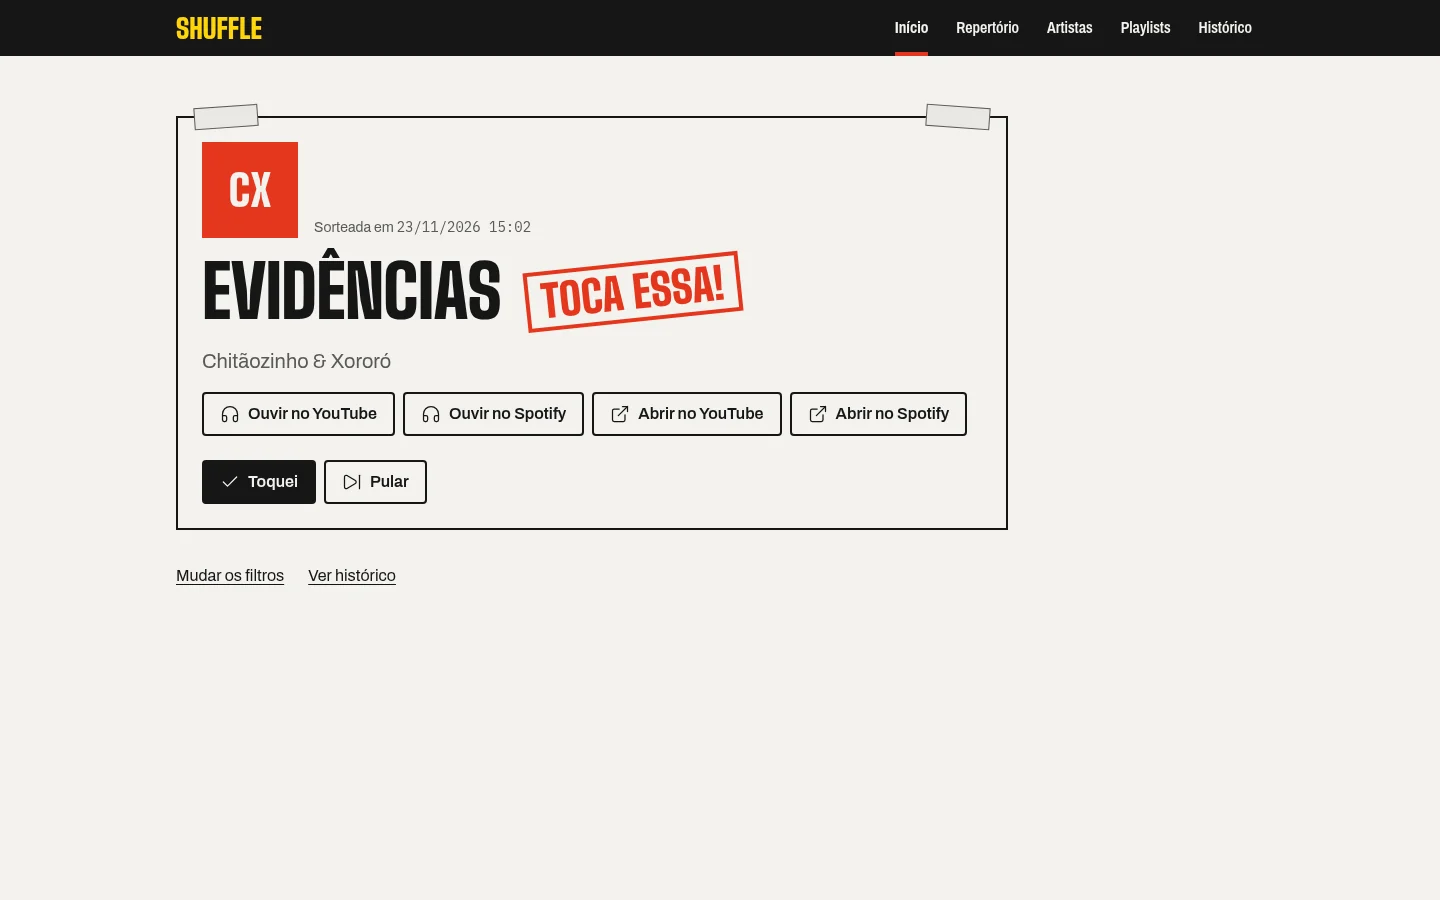
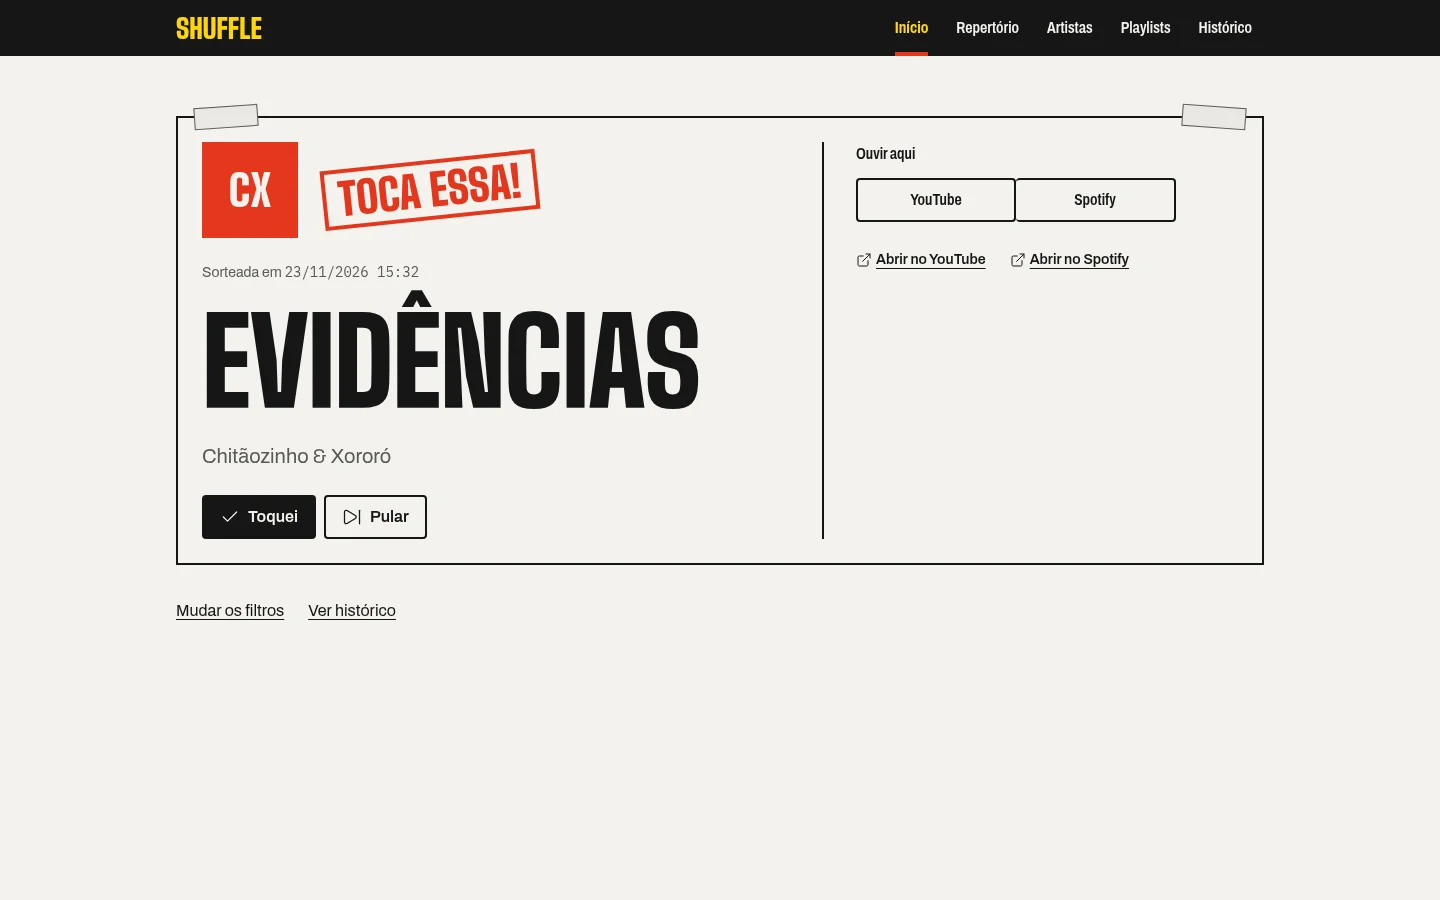
docs(revisao): grupo 4 - README e screenshots
README reescrito na estrutura da entrega (equipe, requisitos com versões,
como rodar, comandos úteis, problemas comuns, OpenSpec, stack e pastas,
telas e limitações), testado comando a comando numa cópia limpa.
Screenshots refeitos: 3 no celular a 390 px e 2 no desktop a 1440 px,
página inteira, sem nada atrás da barra fixa. Flask fixado em 3.1.3 e
critérios de pronto marcados no plano.

diff --git a/README.md b/README.md
@@ -1,112 +1,197 @@
 # Shuffle
 
-Sistema web para cadastrar as músicas que você **já conhece** e **sortear qual tocar** a seguir. O sorteio só usa músicas ativas, aceita filtros (gênero, humor, dificuldade máxima, artista, playlist), evita repetir as últimas N sorteadas e dá o dobro de chance às favoritas. A tela de histórico mostra as estatísticas: músicas mais tocadas, nunca sorteadas, média de notas e músicas por gênero. Cada música pode ter três links: um vídeo do YouTube (inclusive YouTube Music), uma faixa do Spotify e um "Outro link" (cifra, letra, busca). No resultado do sorteio há um botão para abrir cada link preenchido ("Abrir no YouTube", "Abrir no Spotify", "Abrir link") e o player embutido toca a música na própria tela: "Ouvir aqui" quando há um serviço, ou "Ouvir no YouTube" / "Ouvir no Spotify" quando há os dois.
-
-A interface segue o design system "Lambe-lambe", inspirado nos cartazes de show colados nos muros e na folha de setlist presa com fita no chão do palco: papel, tinta, amarelo e vermelho chapados, letras condensadas gigantes e listas com réguas no lugar de cartões. Funciona no celular a partir de 360 px, respeita a preferência de movimento reduzido e não depende de internet: fontes e ícones são servidos pelo próprio sistema.
+Cadastre as músicas que você já sabe tocar e deixe o Shuffle sortear qual vai ser a próxima.
 
 Trabalho de G2 da disciplina de Engenharia de Software, desenvolvido com **OpenSpec** (especificar antes de programar).
 
-## Telas
-
-| Início | Resultado do sorteio | Histórico e estatísticas |
-|---|---|---|
-| ![Início no celular](docs/screenshots/inicio-celular.webp) | ![Resultado no celular](docs/screenshots/resultado-celular.webp) | ![Histórico no celular](docs/screenshots/historico-celular.webp) |
-
-Mais capturas, no celular e no desktop, em [`docs/screenshots/`](docs/screenshots/).
-
-## Integrantes
+## Equipe
 
 - Kadu Brum Gavião
 - Miguel Mombach Foza
 - Josiel Paz
 
-## Pré-requisitos
+## Requisitos
 
-- Python 3 (testado com 3.12)
+- Python 3 e git: testado com Python 3.12.3 e git 2.43.0.
+- Google Chrome (ou Chromium): só para a ferramenta `tools/verificar_links.py`.
+- Node.js 20+ e a CLI do OpenSpec: só para o `openspec validate`.
 
-## Instalação
+O app usa só o Flask 3.1.3 (instalado no passo 4) e o SQLite que já vem com o Python. Não precisa de internet para rodar: fontes e ícones são servidos pelo próprio sistema.
+
+## Como rodar
+
+1. Clonar o repositório:
 
 ```bash
-python -m venv .venv
-source .venv/bin/activate        # Windows: .venv\Scripts\activate
+git clone https://github.com/kadugaviao/shuffle.git
+```
+
+2. Entrar na pasta:
+
+```bash
+cd shuffle
+```
+
+3. Criar e ativar o ambiente virtual (Linux e macOS):
+
+```bash
+python3 -m venv .venv
+source .venv/bin/activate
+```
+
+No Windows (PowerShell):
+
+```powershell
+py -m venv .venv
+.venv\Scripts\activate
+```
+
+4. Instalar as dependências:
+
+```bash
 pip install -r requirements.txt
 ```
 
-## Carga inicial (opcional)
+5. Carregar os dados de exemplo (opcional):
 
 ```bash
 python seed.py
 ```
 
-Cria dados de exemplo para a demonstração: 18 artistas, 20 músicas (rock, rock brasileiro, metal, samba, sertanejo e MPB; os 4 humores; dificuldades de 1 a 5; 5 favoritas e 1 inativa) e as playlists "Roda de violão" e "Churrasco". Todas as músicas têm a faixa do Spotify e quatro têm vídeo do YouTube que toca no player ("Tempo Perdido", "Sonífera Ilha", "Trem das Onze" e "Evidências"); as demais ficam com uma busca do YouTube no "Outro link", porque os vídeos oficiais bloqueiam a incorporação. Os links foram conferidos no navegador e estão documentados em [`docs/links-verificados.md`](docs/links-verificados.md).
-
-- Pode ser rodado mais de uma vez: não duplica nada e não sobrescreve o que você editou.
-- Itens do seed que você excluiu **voltam a ser criados** se rodar de novo.
-
-## Execução
+6. Rodar:
 
 ```bash
 flask --app shuffle_meu run
 ```
 
-Abra http://127.0.0.1:5000. O banco SQLite é criado sozinho em `instance/shuffle.db` na primeira execução.
+7. Abrir no navegador: http://127.0.0.1:5000
 
-## Testes
+## Comandos úteis
+
+Rodar os testes:
 
 ```bash
 python -m unittest
 ```
 
-## Comandos úteis
-
-Conferir se links do YouTube e do Spotify tocam no player embutido (precisa de internet e do Google Chrome; não faz parte dos testes automáticos):
+Recriar o banco do zero com os dados de exemplo (pare o servidor antes):
 
 ```bash
-python tools/verificar_links.py "https://youtu.be/<ID>" "https://open.spotify.com/track/<ID>"
-python tools/verificar_links.py --arquivo links.txt   # um link por linha
+rm -f instance/shuffle.db
+python seed.py
 ```
 
-Para cada link, a ferramenta abre o player como o app abre e mostra `OK` ou `FALHA` com o texto que aparece no player (título e canal ou artista), para conferir se é a música certa. Vídeos que bloqueiam incorporação aparecem como `FALHA`. Foi com ela que os links do seed foram verificados (ver [`docs/links-verificados.md`](docs/links-verificados.md)).
+O banco fica em `instance/shuffle.db` e é criado sozinho na primeira execução. O seed cria 18 artistas, 20 músicas e as playlists "Roda de violão" e "Churrasco":
+- **Músicas:** rock, rock brasileiro, metal, samba, sertanejo e MPB, com os 4 humores, dificuldades de 1 a 5, 5 favoritas e 1 inativa.
+- **Links:** todas as músicas têm faixa do Spotify, e 4 têm vídeo do YouTube que toca no player embutido ("Tempo Perdido", "Sonífera Ilha", "Trem das Onze" e "Evidências"). Os links foram conferidos no navegador e estão em [`docs/links-verificados.md`](docs/links-verificados.md).
+- **Rodar de novo:** o seed pode rodar mais de uma vez. Ele não duplica nada nem sobrescreve o que você editou, mas recria os itens do seed que você excluiu.
 
-## Zerar o banco
-
-Pare o servidor e apague o arquivo `instance/shuffle.db`. Ele é recriado vazio na próxima execução; rode `python seed.py` se quiser os dados de exemplo de novo. O mesmo vale se o `schema.sql` mudar: não há migrações. A exceção são as colunas de link por serviço (`youtube` e `spotify`): um banco criado antes delas as recebe sozinho, vazias, na próxima vez que o app inicia, sem perder músicas. Recriar o banco pelo seed também funciona e já traz os links verificados.
-
-## Estrutura
-
-```
-shuffle_meu/
-  __init__.py      create_app(): configuração, banco e blueprints
-  db.py            conexão SQLite (foreign_keys ligado)
-  schema.sql       as 5 tabelas e as regras de negócio no banco
-  artistas.py      CRUD de artistas
-  musicas.py       CRUD de músicas e validações
-  playlists.py     playlists e suas músicas
-  sorteio.py       algoritmo do sorteio e tela de resultado
-  historico.py     Toquei / Avaliar e tela de histórico
-  estatisticas.py  consultas das estatísticas
-  templates/       telas (Jinja)
-  static/          CSS (design system), JS e fontes (static/fonts)
-tests/             testes (unittest)
-seed.py            carga inicial
-openspec/          especificação (specs, proposta, design e tarefas)
-```
-
-## Especificação (OpenSpec)
-
-Os requisitos, as regras de negócio RN01 a RN08 e os cenários de cada funcionalidade estão em [`openspec/specs/`](openspec/specs/). As mudanças já entregues estão arquivadas em [`openspec/changes/archive/`](openspec/changes/archive/): `add-mvp` (banco, CRUD, sorteio e histórico) e `add-estatisticas-e-visual` (estatísticas e atalhos). A mudança `refaz-identidade-visual` troca o nome para "Shuffle" e o visual para o design system "Lambe-lambe", com as regras anti-slop do seu `design.md`, e a `add-player-embutido` acrescenta o player do YouTube e do Spotify na tela de resultado.
+Validar as specs (precisa de Node.js 20+; instale a CLI uma vez):
 
 ```bash
-openspec validate --specs --strict
+npm install -g @fission-ai/openspec
+openspec validate --all --strict
 ```
 
-## Limitações conhecidas
+Conferir se um link do YouTube ou do Spotify toca no player embutido (precisa de internet e do Google Chrome ou Chromium; não faz parte dos testes):
 
-- Feito para uso local por uma pessoa: não há login nem proteção CSRF. Não publique o servidor na internet sem adicionar isso e definir a variável de ambiente `SECRET_KEY`.
-- A anti-repetição vale para o histórico inteiro, independentemente dos filtros usados no sorteio.
-- **Player embutido na apresentação:** com o seed, "Evidências", "Tempo Perdido", "Sonífera Ilha" e "Trem das Onze" mostram os dois players (YouTube e Spotify); as outras músicas têm só o Spotify. Para outros vídeos, edite a música e cole um link de vídeo (`youtube.com/watch?v=…`, `youtu.be/…`, `youtube.com/shorts/…`, `music.youtube.com/watch?v=…`) no campo YouTube ou de faixa (`open.spotify.com/track/…`, `open.spotify.com/intl-pt/track/…`) no campo Spotify.
-- O player só carrega depois do clique e precisa de internet nesse momento; a tela de resultado em si abre sem internet. Vários vídeos oficiais de música bloqueiam a incorporação e o Spotify toca só uma prévia de 30 s para quem não está logado no navegador: nesses casos, use "Abrir no YouTube" ou "Abrir no Spotify". O status de incorporação muda com o tempo; confira com `python tools/verificar_links.py` antes de apresentar.
-- Modo "Esquecidas", setlist, modo festa, CSV e desafio ficaram para trabalhos futuros (ver o `proposal.md` das mudanças em `openspec/changes/`).
+```bash
+python tools/verificar_links.py "https://youtu.be/jNQXAC9IVRw"
+```
+
+Para cada link, a ferramenta abre o player como o app abre. Ela mostra `OK` ou `FALHA` com o texto que aparece no player (título e canal ou artista), para você conferir se é a música certa. Para vários links, use `--arquivo links.txt`, com um link por linha.
+
+## Problemas comuns
+
+| Erro | Comando |
+|---|---|
+| `ModuleNotFoundError: No module named 'flask'` | Ative o ambiente virtual e instale as dependências: `source .venv/bin/activate` e depois `pip install -r requirements.txt` |
+| `Error: Could not locate a Flask application` | Rode da pasta do projeto, com o `--app`: `cd shuffle` e depois `flask --app shuffle_meu run` |
+| Porta 5000 ocupada (`Address already in use`; no macOS, o AirPlay usa a 5000) | Use outra porta e abra http://127.0.0.1:5001: `flask --app shuffle_meu run --port 5001` |
+| YouTube "This video is unavailable" no player | O dono do vídeo bloqueou a incorporação. Confira com `python tools/verificar_links.py "<link>"`. Se der `FALHA`, use "Abrir no YouTube" ou edite a música com outro vídeo. |
+
+## OpenSpec
+
+Cada mudança passa por quatro passos:
+1. **explore:** conversar sobre a ideia e os riscos, sem escrever nada.
+2. **propose:** escrever `proposal.md`, deltas das specs, `design.md` e `tasks.md`, e commitá-los **antes** do código.
+3. **apply e archive:** implementar as tarefas uma a uma; ao terminar, arquivar a mudança e incorporar as deltas às specs.
+
+Onde ficam:
+- **Specs atuais**, com os requisitos, as regras RN01 a RN08 e os cenários: [`openspec/specs/`](openspec/specs/)
+  - `artistas`, `musicas`, `playlists`, `sorteio`, `historico`, `estatisticas` e `interface`.
+- **Mudanças arquivadas:** [`openspec/changes/archive/`](openspec/changes/archive/)
+  - `add-mvp`: banco, CRUD, sorteio e histórico;
+  - `add-estatisticas-e-visual`: estatísticas e atalhos;
+  - `refaz-identidade-visual`: nome "Shuffle" e design system "Lambe-lambe";
+  - `add-player-embutido`: player do YouTube e do Spotify no resultado;
+  - `add-links-por-servico`: um campo de link por serviço e o seed com links verificados.
+- **Mudança em andamento:** `openspec/changes/revisao-final/`, a revisão antes da apresentação. O relatório está em [`docs/revisao-final.md`](docs/revisao-final.md).
+- **Plano do projeto:** [`docs/plan.md`](docs/plan.md).
+
+Comandos usados no Claude Code: `/openspec-explore`, `/openspec-propose <nome>`, `/openspec-apply-change <nome>` e `/openspec-archive-change <nome>`.
+
+## Stack e pastas
+
+| Camada | Tecnologia |
+|---|---|
+| Back-end | Python 3 + Flask 3.1.3 |
+| Banco | SQLite, pelo módulo `sqlite3` da biblioteca padrão (sem ORM), 5 tabelas |
+| Front-end | Templates Jinja, HTML, CSS e JavaScript puros (sem framework nem bundler) |
+| Testes | `unittest` da biblioteca padrão |
+| Especificação | OpenSpec |
+
+```
+shuffle/
+├── shuffle_meu/          o app Flask
+│   ├── __init__.py       create_app(): configuração, banco e blueprints
+│   ├── schema.sql        as 5 tabelas e as regras de negócio no banco
+│   ├── db.py             conexão SQLite
+│   ├── artistas.py       CRUD de artistas
+│   ├── musicas.py        CRUD de músicas e validações
+│   ├── playlists.py      playlists e suas músicas
+│   ├── sorteio.py        algoritmo do sorteio e tela de resultado
+│   ├── links.py          validação dos links e montagem do player
+│   ├── historico.py      Toquei, notas e tela de histórico
+│   ├── estatisticas.py   consultas das estatísticas
+│   ├── templates/        telas (Jinja)
+│   └── static/           CSS do design system, JS e fontes
+├── tests/                testes automáticos
+├── tools/                verificar_links.py
+├── seed.py               dados de exemplo
+├── docs/                 plano, links verificados, revisão final e screenshots
+└── openspec/             specs e mudanças (ativas e arquivadas)
+```
+
+## Telas e limitações conhecidas
+
+No celular (390 px):
+
+| Início | Resultado do sorteio | Histórico e estatísticas |
+|---|---|---|
+| <img src="docs/screenshots/inicio-celular.webp" width="260" alt="Início no celular"> | <img src="docs/screenshots/resultado-celular.webp" width="260" alt="Resultado do sorteio no celular"> | <img src="docs/screenshots/historico-celular.webp" width="260" alt="Histórico e estatísticas no celular"> |
+
+No desktop (1440 px):
+
+| Início | Resultado do sorteio |
+|---|---|
+| <img src="docs/screenshots/inicio-desktop.webp" width="420" alt="Início no desktop"> | <img src="docs/screenshots/resultado-desktop.webp" width="420" alt="Resultado do sorteio no desktop"> |
+
+Limitações conhecidas:
+- **Uso local:** o app foi feito para uma pessoa no próprio computador e não tem login nem proteção CSRF. A `SECRET_KEY` cai em `"dev"` se a variável de ambiente não existir. Antes de publicar na internet, é preciso acrescentar essas proteções e definir `SECRET_KEY`.
+- **Anti-repetição:** vale para o histórico inteiro, independentemente dos filtros do sorteio.
+- **Player embutido:**
+  - Carrega só depois do clique e precisa de internet nesse momento; a tela de resultado abre sem internet.
+  - Vários vídeos oficiais bloqueiam a incorporação.
+  - O Spotify toca só uma prévia de 30 s para quem não está logado no navegador.
+  - Nesses casos, use "Abrir no YouTube" ou "Abrir no Spotify". Confira os links com `python tools/verificar_links.py` antes de apresentar.
+- **Trabalho futuro:**
+  - tocar arquivo de áudio local;
+  - gravar a própria versão pelo microfone;
+  - players de SoundCloud e Deezer;
+  - proteção CSRF;
+  - modos "Esquecidas", setlist e festa;
+  - exportação CSV.
 
 ## Créditos
 

diff --git a/openspec/changes/revisao-final/tasks.md b/openspec/changes/revisao-final/tasks.md
@@ -26,10 +26,10 @@ Referências: achados em `docs/revisao-final.md` (IDs entre parênteses), compor
 
 ## 4. Documentação e entrega (DOC1–DOC4, SEG2)
 
-- [ ] 4.1 `requirements.txt` com `Flask==3.1.3` e `docs/plan.md` com os critérios de pronto marcados (exceto o ensaio); verificar `pip install -r requirements.txt` num venv novo
-- [ ] 4.2 Refazer os screenshots (D9): celular 390 px a 2× (início, resultado, histórico) e desktop 1440 px (início, resultado), página inteira, mesma largura por grupo, WebP; apagar os que não forem usados; verificar abrindo cada imagem que nada fica atrás da barra fixa e que a aba atual aparece
-- [ ] 4.3 Reescrever o `README.md` na estrutura de D9 (equipe, requisitos com versões, como rodar só com comandos, comandos úteis, problemas comuns, OpenSpec com as 5 mudanças arquivadas, stack, pastas, screenshots e limitações); verificar que não sobra "Shuffle Meu", "TODO" ou texto provisório
-- [ ] 4.4 Cópia limpa: `git clone` num diretório temporário, executar cada comando do README na ordem (inclusive testes, recriar o banco, `openspec validate --strict` e `tools/verificar_links.py` com um link) e conferir o app respondendo em http://127.0.0.1:5000; anotar qualquer divergência e corrigir o README
+- [x] 4.1 `requirements.txt` com `Flask==3.1.3` e `docs/plan.md` com os critérios de pronto marcados (exceto o ensaio); verificar `pip install -r requirements.txt` num venv novo
+- [x] 4.2 Refazer os screenshots (D9): celular 390 px a 2× (início, resultado, histórico) e desktop 1440 px (início, resultado), página inteira, mesma largura por grupo, WebP; apagar os que não forem usados; verificar abrindo cada imagem que nada fica atrás da barra fixa e que a aba atual aparece
+- [x] 4.3 Reescrever o `README.md` na estrutura de D9 (equipe, requisitos com versões, como rodar só com comandos, comandos úteis, problemas comuns, OpenSpec com as 5 mudanças arquivadas, stack, pastas, screenshots e limitações); verificar que não sobra "Shuffle Meu", "TODO" ou texto provisório
+- [x] 4.4 Cópia limpa: `git clone` num diretório temporário, executar cada comando do README na ordem (inclusive testes, recriar o banco, `openspec validate --strict` e `tools/verificar_links.py` com um link) e conferir o app respondendo em http://127.0.0.1:5000; anotar qualquer divergência e corrigir o README
 - [ ] 4.5 Rodar a suíte, `openspec validate revisao-final --strict` e `openspec validate --all --strict`; atualizar `docs/revisao-final.md` com o estado de cada item (corrigido ou trabalho futuro); verificar que nenhum servidor ficou rodando; commitar o grupo
 
 ## Workflow follow-up

diff --git a/docs/plan.md b/docs/plan.md
@@ -245,13 +245,13 @@ O sistema DEVE impedir que uma música sorteada nas últimas N rodadas seja sort
 ---
 
 ## 12. Critérios de pronto (MVP)
-- [ ] Banco com as tabelas `artista`, `musica`, `playlist`, `playlist_musica` e `sorteio` (mínimo exigido: 2)
-- [ ] CRUD completo de músicas e artistas funcionando
-- [ ] Sorteio funcionando com pelo menos 1 filtro
-- [ ] Histórico de sorteios salvo
-- [ ] OpenSpec iniciado (`openspec/config.yaml`) e specs em Markdown no repositório (`openspec/specs/`)
-- [ ] Mudança `add-mvp` passou pelos 4 passos e está em `openspec/changes/archive/`
-- [ ] Histórico de commits mostra as specs escritas **antes** do código
-- [ ] README com o nome dos integrantes do trio e as instruções de instalação e execução
-- [ ] Código e artefatos no GitHub, com o repositório acessível ao professor
+- [x] Banco com as tabelas `artista`, `musica`, `playlist`, `playlist_musica` e `sorteio` (mínimo exigido: 2)
+- [x] CRUD completo de músicas e artistas funcionando
+- [x] Sorteio funcionando com pelo menos 1 filtro
+- [x] Histórico de sorteios salvo
+- [x] OpenSpec iniciado (`openspec/config.yaml`) e specs em Markdown no repositório (`openspec/specs/`)
+- [x] Mudança `add-mvp` passou pelos 4 passos e está em `openspec/changes/archive/`
+- [x] Histórico de commits mostra as specs escritas **antes** do código
+- [x] README com o nome dos integrantes do trio e as instruções de instalação e execução
+- [x] Código e artefatos no GitHub, com o repositório acessível ao professor
 - [ ] Apresentação ensaiada para **24/11**
